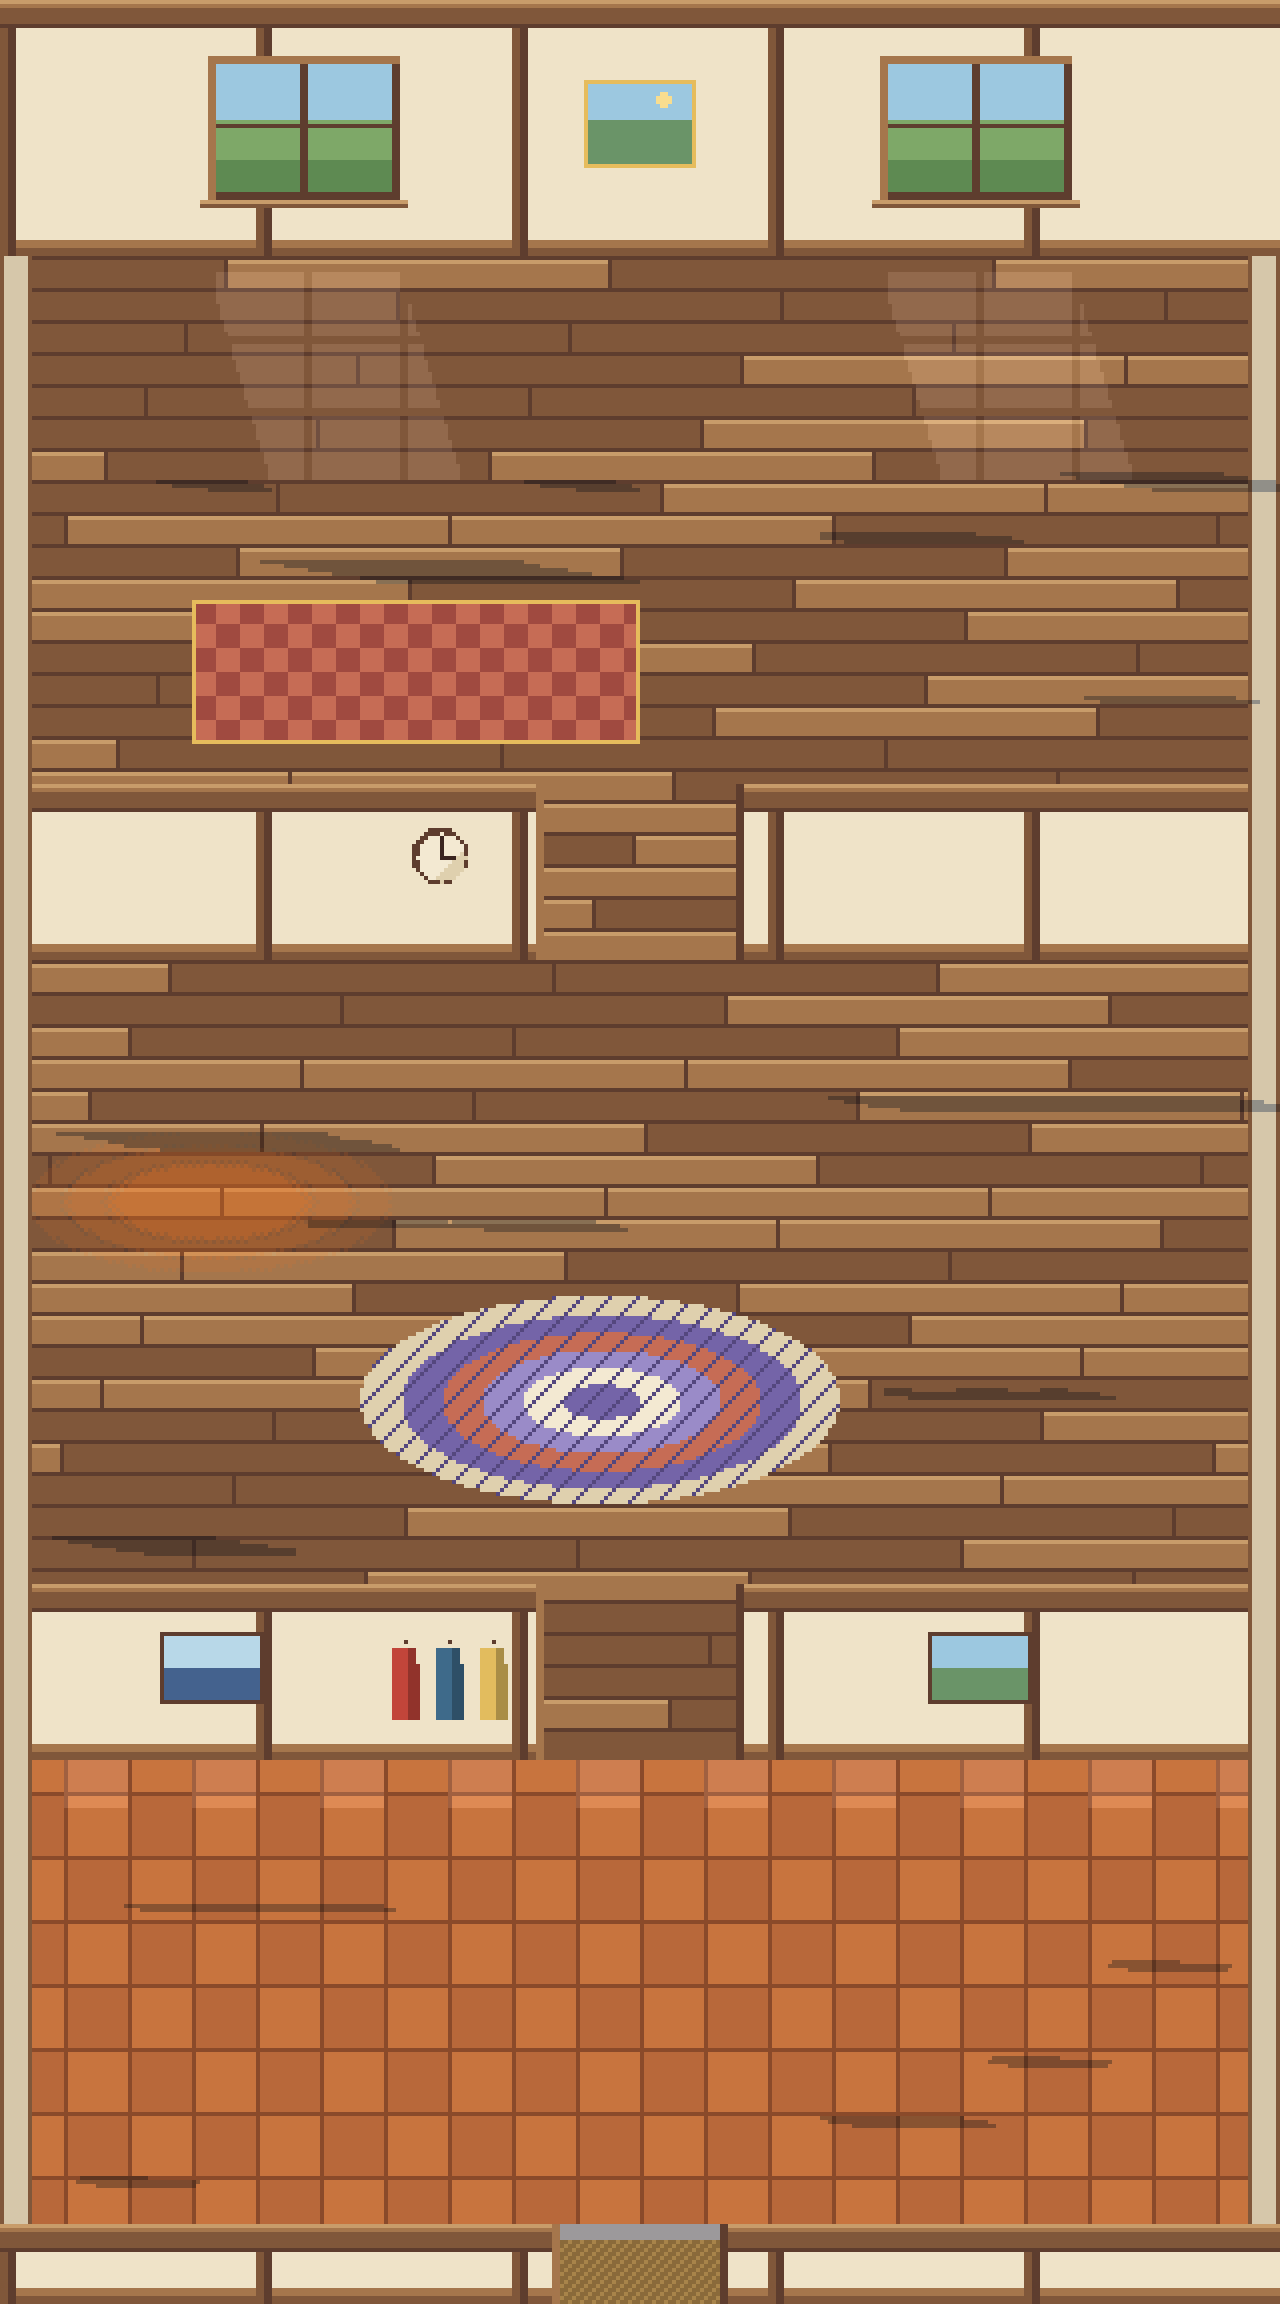
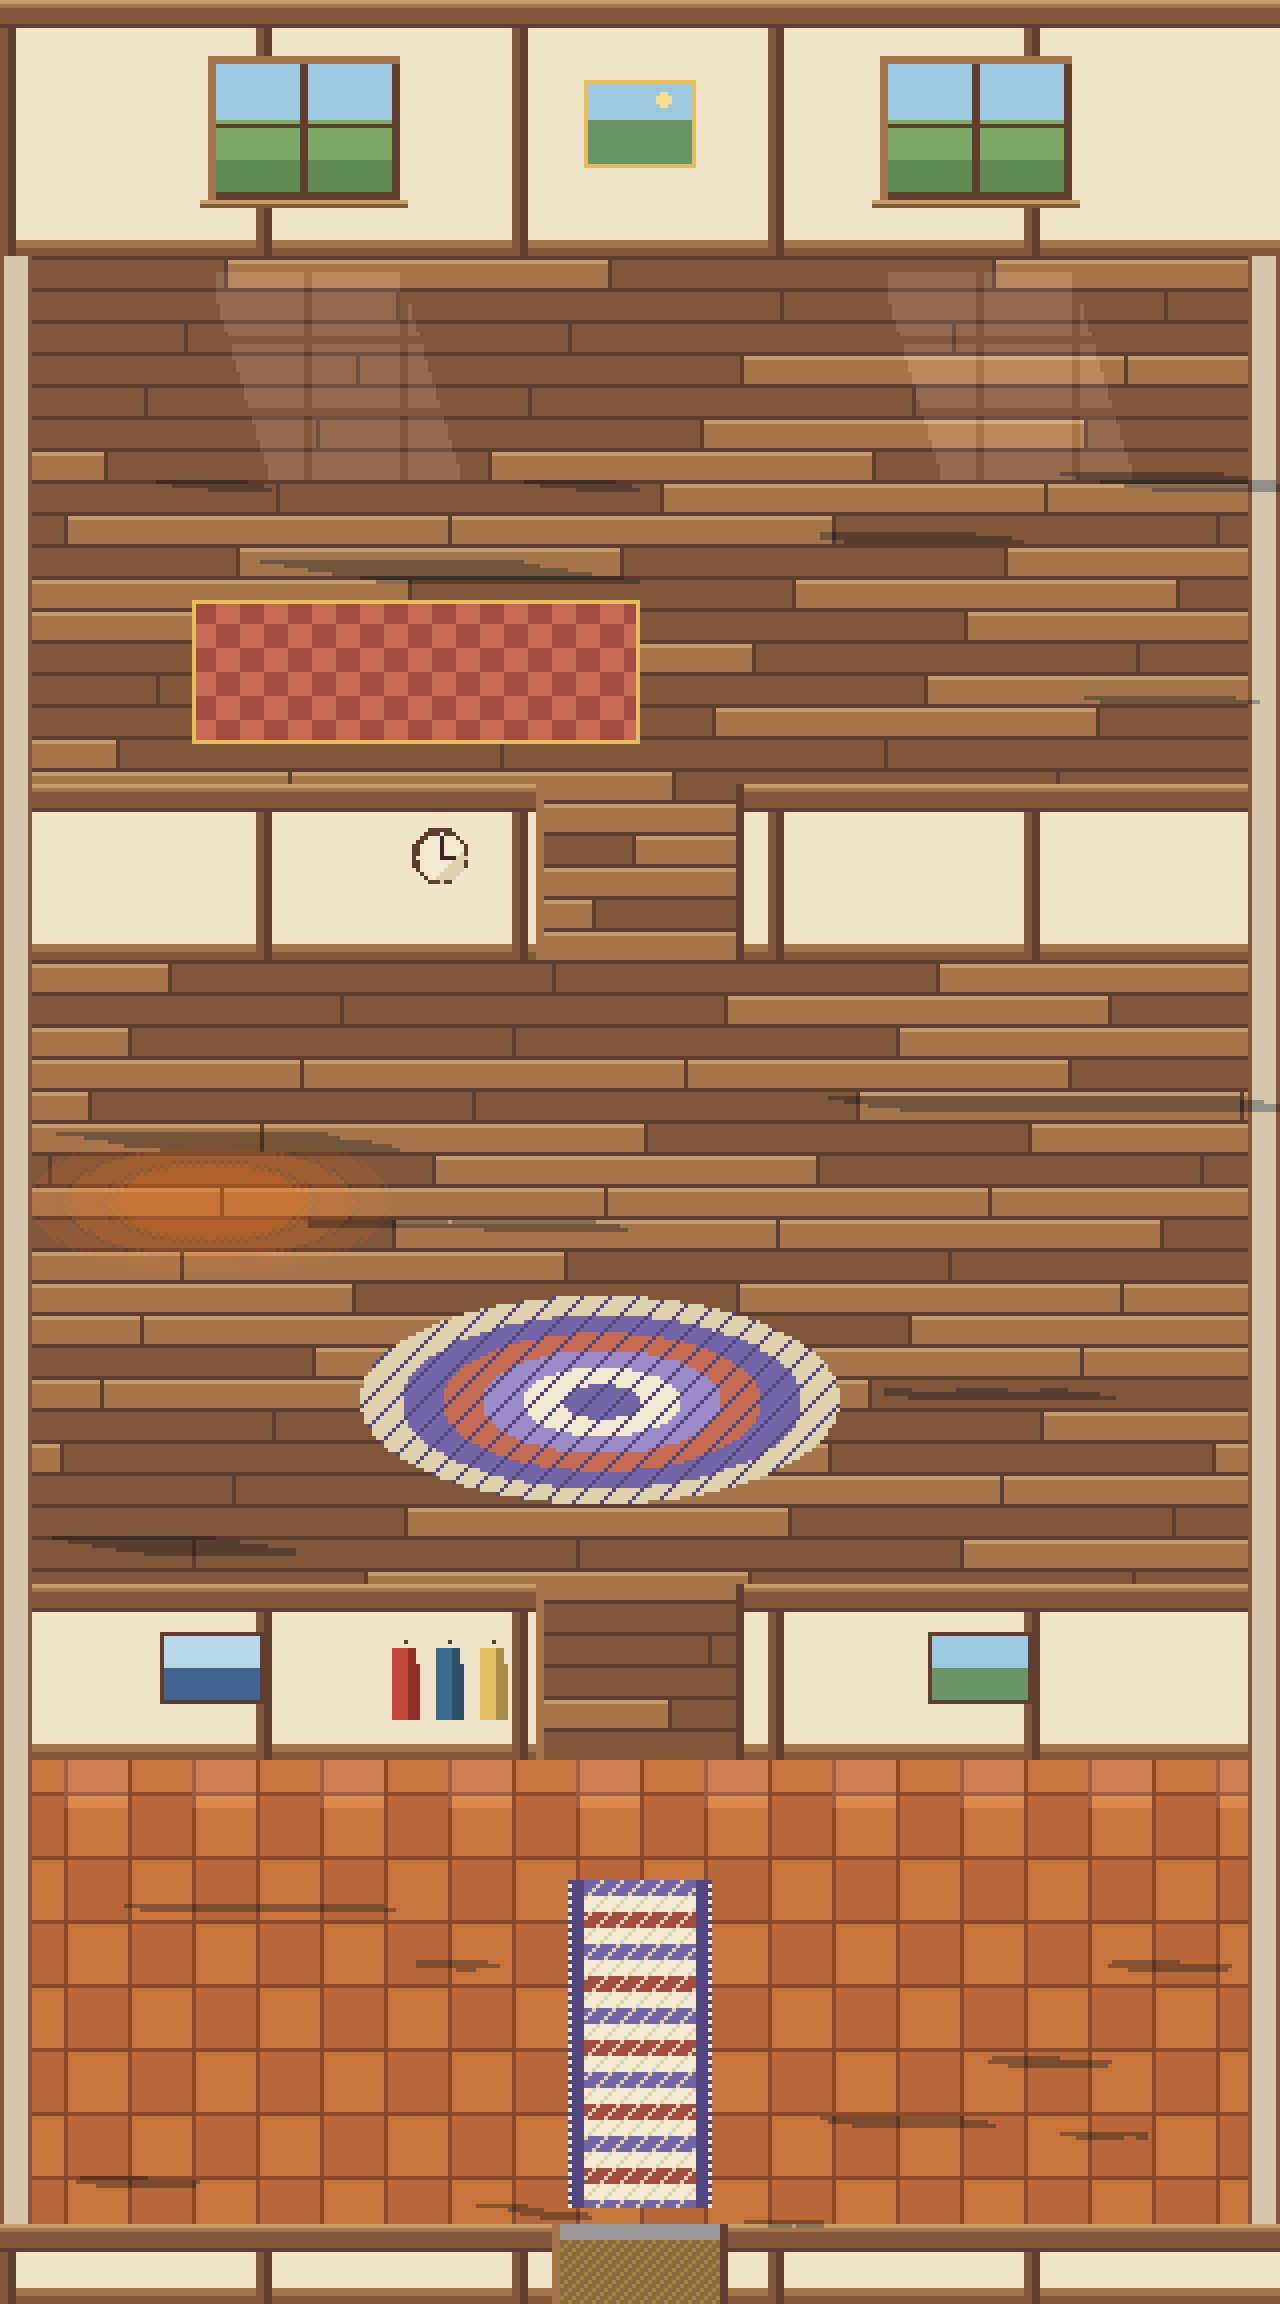
Hut sunroom: a runner from the door, a coat stand, boots, a lamp table and a watering can
Claude-Session: https://claude.ai/code/session_01UudrmtYkicLNgZeuSjvjrK

Changed region(s): [[0.4062, 0.8125, 0.5625, 0.9688], [0.8438, 0.9062, 0.875, 0.9375], [0.3438, 0.8438, 0.375, 0.875]]

diff --git a/lib/zone-assets.ts b/lib/zone-assets.ts
@@ -28,6 +28,7 @@ import propBoatRed from '@/assets/zones/props/boat_red.png';
 import propBollard from '@/assets/zones/props/bollard.png';
 import propBookcase from '@/assets/zones/props/bookcase.png';
 import propBookshelf from '@/assets/zones/props/bookshelf.png';
+import propBoots from '@/assets/zones/props/boots.png';
 import propBoulder from '@/assets/zones/props/boulder.png';
 import propBunting from '@/assets/zones/props/bunting.png';
 import propBuoy from '@/assets/zones/props/buoy.png';
@@ -46,6 +47,7 @@ import propCharredSnag from '@/assets/zones/props/charred_snag.png';
 import propCloche from '@/assets/zones/props/cloche.png';
 import propClockTower from '@/assets/zones/props/clock_tower.png';
 import propCoalCart from '@/assets/zones/props/coal_cart.png';
+import propCoatRack from '@/assets/zones/props/coat_rack.png';
 import propColumnStump from '@/assets/zones/props/column_stump.png';
 import propColumnStumpB from '@/assets/zones/props/column_stump_b.png';
 import propConsole from '@/assets/zones/props/console.png';
@@ -167,6 +169,7 @@ import propSheep from '@/assets/zones/props/sheep.png';
 import propSheepLeft from '@/assets/zones/props/sheep_left.png';
 import propShelter from '@/assets/zones/props/shelter.png';
 import propShuttle from '@/assets/zones/props/shuttle.png';
+import propSideTable from '@/assets/zones/props/side_table.png';
 import propSignpost from '@/assets/zones/props/signpost.png';
 import propSkyBench from '@/assets/zones/props/sky_bench.png';
 import propSkyPlanter from '@/assets/zones/props/sky_planter.png';
@@ -216,6 +219,7 @@ import propWaterCrane from '@/assets/zones/props/water_crane.png';
 import propWaterJar from '@/assets/zones/props/water_jar.png';
 import propWaterMill from '@/assets/zones/props/water_mill.png';
 import propWaterTower from '@/assets/zones/props/water_tower.png';
+import propWateringCan from '@/assets/zones/props/watering_can.png';
 import propWeaponRack from '@/assets/zones/props/weapon_rack.png';
 import propWell from '@/assets/zones/props/well.png';
 import propWillow from '@/assets/zones/props/willow.png';
@@ -292,6 +296,7 @@ export const zoneProps: Record<string, ImageSourcePropType> = {
   bollard: propBollard,
   bookcase: propBookcase,
   bookshelf: propBookshelf,
+  boots: propBoots,
   boulder: propBoulder,
   bunting: propBunting,
   buoy: propBuoy,
@@ -310,6 +315,7 @@ export const zoneProps: Record<string, ImageSourcePropType> = {
   cloche: propCloche,
   clock_tower: propClockTower,
   coal_cart: propCoalCart,
+  coat_rack: propCoatRack,
   column_stump: propColumnStump,
   column_stump_b: propColumnStumpB,
   console: propConsole,
@@ -431,6 +437,7 @@ export const zoneProps: Record<string, ImageSourcePropType> = {
   sheep_left: propSheepLeft,
   shelter: propShelter,
   shuttle: propShuttle,
+  side_table: propSideTable,
   signpost: propSignpost,
   sky_bench: propSkyBench,
   sky_planter: propSkyPlanter,
@@ -480,6 +487,7 @@ export const zoneProps: Record<string, ImageSourcePropType> = {
   water_jar: propWaterJar,
   water_mill: propWaterMill,
   water_tower: propWaterTower,
+  watering_can: propWateringCan,
   weapon_rack: propWeaponRack,
   well: propWell,
   willow: propWillow,

diff --git a/lib/zone-maps.ts b/lib/zone-maps.ts
@@ -3400,6 +3400,10 @@ export const zoneMaps: Record<ZoneId, ZoneMap> = {
       ['plant-2', 'plant_tall', 239, 483, 30, 32],
       ['plant-3', 'plant_tall', 11, 513, 30, 32],
       ['chair-s', 'armchair', 203, 495, 34, 35],
+      ['coats', 'coat_rack', 118, 509, 13, 43],
+      ['boots', 'boots', 186, 544, 18, 12],
+      ['side', 'side_table', 99, 468, 20, 23],
+      ['can', 'watering_can', 265, 521, 18, 13],
     ],
     walk: [
       '80#',
@@ -3523,8 +3527,8 @@ export const zoneMaps: Record<ZoneId, ZoneMap> = {
       '2#6.15#55.2#',
       '2#6.15#55.2#',
       '2#76.2#',
-      '2#66.6#4.2#',
-      '2#66.6#4.2#',
+      '2#23.4#39.6#4.2#',
+      '2#23.4#39.6#4.2#',
       '2#76.2#',
       '2#76.2#',
       '2#76.2#',
@@ -3534,13 +3538,13 @@ export const zoneMaps: Record<ZoneId, ZoneMap> = {
       '2#76.2#',
       '2#76.2#',
       '2#49.8#19.2#',
-      '2#49.8#19.2#',
-      '2#76.2#',
+      '2#49.8#8.3#8.2#',
+      '2#65.3#8.2#',
       '2#1.7#68.2#',
       '2#1.7#68.2#',
-      '2#1.7#68.2#',
-      '2#76.2#',
-      '2#76.2#',
+      '2#1.7#20.2#46.2#',
+      '2#28.2#15.4#27.2#',
+      '2#45.4#27.2#',
       '35#10.35#',
       '35#10.35#',
       '35#10.35#',

diff --git a/scripts/art/home_props.py b/scripts/art/home_props.py
@@ -310,12 +310,86 @@ def desk() -> Canvas:
         cv.set(x, y, WOOD[3] if x < 22 else WOOD[2])
     return cv
 
+def coat_rack() -> Canvas:
+    """A coat stand by the door, 18 x 42: a turned post with pegs, a scarf and a coat
+    hanging from them, and a round foot."""
+    w, h = 18, 42
+    cv = Canvas(w, h, pad=PAD)
+    for y in range(3, h - 3):
+        cv.set(8, y, WOOD[3]); cv.set(9, y, WOOD[1])
+    for (x, y) in disc(8.5, 2, 1.6):
+        cv.set(x, y, WOOD[4])
+    for (x0, dx) in ((7, -1), (10, 1)):
+        for t in range(4):
+            cv.set(x0 + dx * t, 6 - t // 2, WOOD[3])
+    for y in range(7, 22):  # a long coat, shaded on its right
+        for x in range(3, 9):
+            if x < 4 + (y - 7) // 6:
+                continue
+            cv.set(x, y, '#5A7A8A' if x < 6 else '#3E5A6A')
+    cv.hline(5, 7, 3, '#2E4652')
+    for y in range(6, 16):  # a scarf
+        cv.set(11 + (y > 10), y, RED[3]); cv.set(12 + (y > 10), y, RED[2])
+    for (x, y) in oval(8.5, h - 3, 6, 1.8):
+        cv.set(x, y, WOOD[3] if x < 9 else WOOD[1])
+    return cv
+
+
+def boots() -> Canvas:
+    """A pair of muddy boots on a little mat, 18 x 12."""
+    w, h = 18, 12
+    cv = Canvas(w, h, pad=PAD)
+    cv.rect(1, 8, 16, 3, '#8A6A3E'); cv.hline(1, 8, 16, '#B8945A')
+    for bx in (3, 10):
+        for y in range(1, 9):
+            cv.set(bx, y, '#6E4A2E'); cv.set(bx + 1, y, '#5A3A24'); cv.set(bx + 2, y, '#4A2E1C')
+        cv.hline(bx, 8, 5, '#4A2E1C'); cv.hline(bx + 3, 7, 2, '#5A3A24')
+        cv.hline(bx, 1, 3, '#8A6040')
+    return cv
+
+
+def side_table() -> Canvas:
+    """A small round side table, 22 x 26, with a lamp lit warm and a cup of tea."""
+    w, h = 22, 26
+    cv = Canvas(w, h, pad=PAD)
+    for (x, y) in oval(11, 14, 9, 3):
+        cv.set(x, y, WOOD[4] if y < 14 and x < 12 else WOOD[3])
+    cv.hline(3, 17, 17, WOOD[1])
+    for y in range(18, h - 1):
+        cv.set(10, y, WOOD[2]); cv.set(11, y, WOOD[1])
+    cv.hline(6, h - 2, 10, WOOD[1])
+    for y in range(3, 9):  # the lamp's shade
+        for x in range(4 + (8 - y) // 2, 12 - (8 - y) // 2):
+            cv.set(x, y, WARM[3] if x < 8 else WARM[2])
+    cv.vline(7, 9, 4, GOLD[2]); cv.hline(5, 12, 5, GOLD[3])
+    cv.rect(14, 10, 3, 3, CREAM[3]); cv.set(17, 11, CREAM[2]); cv.set(15, 10, '#A8703A')  # tea
+    return cv
+
+
+def watering_can() -> Canvas:
+    """A green watering can, 20 x 14, for the sunroom plants."""
+    w, h = 20, 14
+    cv = Canvas(w, h, pad=PAD)
+    GR = ['#2E5A40', '#447A50', '#62995E', '#8CBB76']
+    for y in range(5, h - 1):
+        for x in range(4, 13):
+            cv.set(x, y, GR[3] if x < 6 else GR[2] if x < 11 else GR[1])
+    cv.hline(4, 5, 9, GR[3])
+    for t in range(6):  # the spout
+        cv.set(13 + t, 9 - t // 2, GR[1]); cv.set(13 + t, 10 - t // 2, GR[0])
+    cv.hline(18, 6, 2, GR[3])
+    for x in range(5, 12):  # the handle
+        cv.set(x, 2 + abs(x - 8) // 2, GR[1])
+    return cv
+
+
 def props() -> dict[str, Canvas]:
     return {
         'bed': bed(), 'nightstand': nightstand(), 'wardrobe': wardrobe(), 'fireplace': fireplace(),
         'armchair': armchair(), 'pet_bed': pet_bed(), 'dining_table': dining_table(), 'kitchen': kitchen(),
         'bookcase': bookcase(), 'plant_tall': plant_tall(), 'keepsake_chest': rug_chest(),
-        'window_seat': window_seat(), 'desk': desk(),
+        'window_seat': window_seat(), 'desk': desk(), 'coat_rack': coat_rack(), 'boots': boots(),
+        'side_table': side_table(), 'watering_can': watering_can(),
     }
 
 

diff --git a/scripts/art/zones.py b/scripts/art/zones.py
@@ -1860,6 +1860,16 @@ def home(frame: int = 0):
         d = math.hypot((x - 150) / 60, (y - 350) / 26)
         ring = int(d * 6)
         cv.set(x, y, (NAP[2], CREAM[3], NAP[3], RED[3], NAP[2], CREAM[2])[min(5, ring)] if (x + y) % 7 else NAP[1])
+    # a woven runner from the front door into the sunroom
+    for y in range(470, 552):
+        for x in range(142, 178):
+            band = (y - 470) // 4 % 4
+            c = (NAP[2], CREAM[3], RED[2], CREAM[3])[band] if 146 <= x < 174 else NAP[1]
+            if (x + y) % 5 == 0 and 146 <= x < 174:
+                c = CREAM[2]
+            if x in (142, 177) and y % 2:
+                c = CREAM[3]  # the fringe
+            cv.set(x, y, c)
     # the hearth's glow on the floor
     light_pool(cv, 52, 300, 46, 18, '#F2721E', skip=frozenset(blocked))
     objects = [
@@ -1872,6 +1882,8 @@ def home(frame: int = 0):
         # the sunroom
         ('seat', 'window_seat', 30, 456), ('plant-1', 'plant_tall', 270, 446), ('plant-2', 'plant_tall', 240, 470),
         ('plant-3', 'plant_tall', 12, 500), ('chair-s', 'armchair', 200, 492),
+        ('coats', 'coat_rack', 116, 510), ('boots', 'boots', 186, 544), ('side', 'side_table', 98, 466),
+        ('can', 'watering_can', 262, 520),
     ]
     stands = {'door': (160, 544), 'bed': (96, 150), 'hearth': (60, 316), 'table': (240, 366), 'sunroom': (120, 500)}
     return cv, objects, stands, blocked

diff --git a/docs/vision/world-atlas.md b/docs/vision/world-atlas.md
@@ -84,7 +84,7 @@ Every journey now leaves from a drawn stop: the valley train from Valley Halt, t
 
 **How borders meet.** No prop crosses a border with a neighbour (the generator fails if one does; a tall prop may rise up to 48 px over a north border only where nothing stands in the zone behind). Every door faces open, reachable ground with nothing standing in front of it (also checked). A road that crosses a border keeps its x (or y) and width and is painted on past the edge, so neither side draws a turf edge there (`paint_road` and the garden's path painter both treat pixels beyond the edge as road). Water, banks and bluffs continue on the same line (the Riverside and the Woodland reuse the garden's stream function with an x offset). Where the ground differs, the side that changes dithers into its neighbour's ground over the last 56 pixels (the Woodland's forest floor into the garden's grass).
 
-**Middle-distance detail (18 Oct).** Open ground between the landmarks gets things at the scale of the companion, each belonging to its place: old pahoehoe flows cooled flat on the ash (rope ridges bowed downstream, lit lip, round toes), fallen basalt scree and charred snags with one crack still glowing in the caldera and the springs; an old gold-foil lander with its short tracks, a natural rock arch you walk through and boulder fields on Lumen; acacias, tamarisk scrub and sandstone outcrops on the oasis dunes. The Skyport's plaza got a still reflecting pool under the platform, a compass rose inlaid in the concourse, a flower kiosk under the guideway and planter beds by the quay. The Woodland now closes in like a forest: the floor goes into dithered deep shade at its outer edges, with more pines, stumps and bushes, and a stone circle stands in its own glade (moss-capped grey-purple stones on a ring of reddish trodden earth, after the reference Matt chose as the bar). Hearthold Castle's yards are used: a slate-hooded well by the bell tower, a rack of practice swords by the dummies, a stone bench behind the keep, banner poles at the bridge and archery butts on the headland meadow. The Ridge is lived on: a woodpile by the cabin, a sled and a snowman on the snow, a dry stone wall across the meadow, cotton grass round the tarn and a marmot on its rock. Small decals (dress) stay for the near scale; landmarks stay the far scale.
+**Middle-distance detail (18 Oct).** Open ground between the landmarks gets things at the scale of the companion, each belonging to its place: old pahoehoe flows cooled flat on the ash (rope ridges bowed downstream, lit lip, round toes), fallen basalt scree and charred snags with one crack still glowing in the caldera and the springs; an old gold-foil lander with its short tracks, a natural rock arch you walk through and boulder fields on Lumen; acacias, tamarisk scrub and sandstone outcrops on the oasis dunes. The Skyport's plaza got a still reflecting pool under the platform, a compass rose inlaid in the concourse, a flower kiosk under the guideway and planter beds by the quay. The Woodland now closes in like a forest: the floor goes into dithered deep shade at its outer edges, with more pines, stumps and bushes, and a stone circle stands in its own glade (moss-capped grey-purple stones on a ring of reddish trodden earth, after the reference Matt chose as the bar). Hearthold Castle's yards are used: a slate-hooded well by the bell tower, a rack of practice swords by the dummies, a stone bench behind the keep, banner poles at the bridge and archery butts on the headland meadow. The Ridge is lived on: a woodpile by the cabin, a sled and a snowman on the snow, a dry stone wall across the meadow, cotton grass round the tarn and a marmot on its rock. Inside the hut, the sunroom by the front door has a woven runner, a coat stand, boots on a mat, a lamp table by the window seat and a watering can for the plants. Small decals (dress) stay for the near scale; landmarks stay the far scale.
 
 ## A world that feels alive
 
